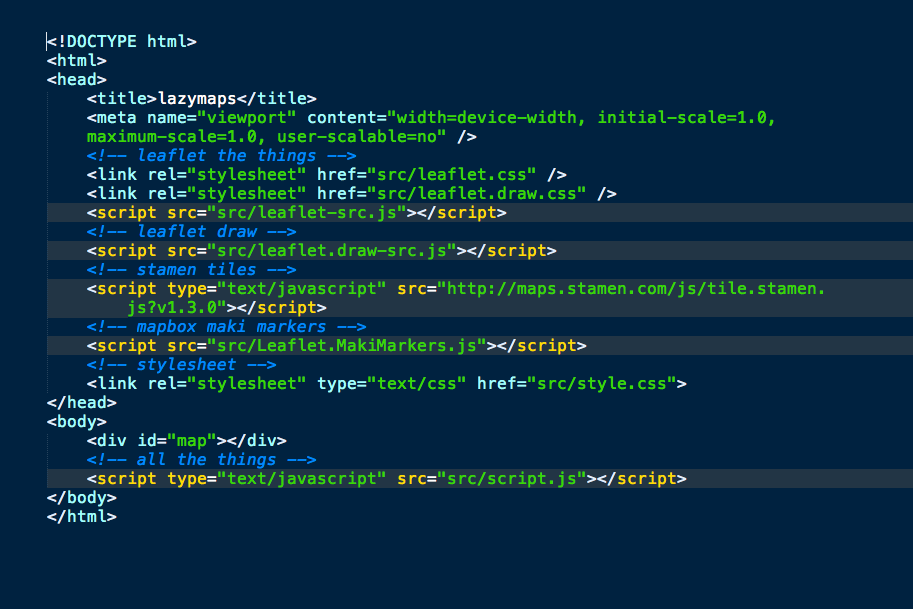
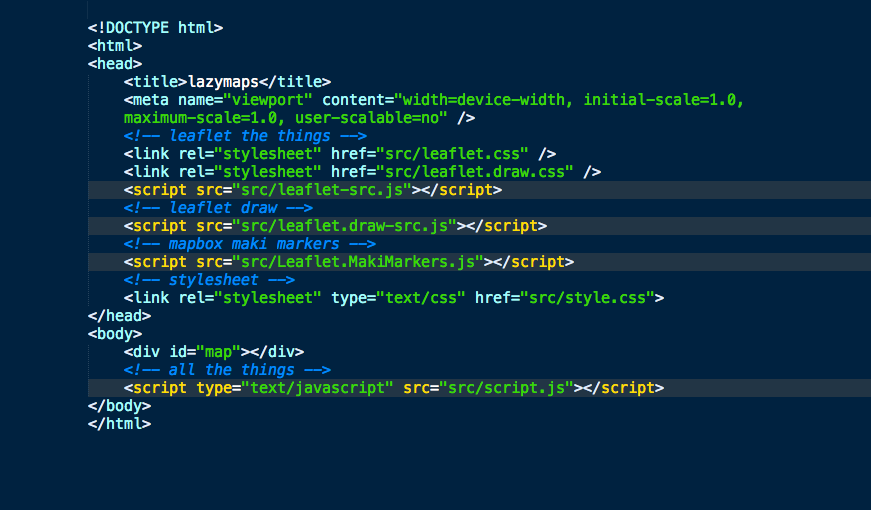
hella basic

diff --git a/hella-basic/index.html b/hella-basic/index.html
@@ -1,3 +1,4 @@
+
 <!DOCTYPE html>
 <html>
 <head>
@@ -9,8 +10,6 @@
 	<script src="src/leaflet-src.js"></script>
 	<!-- leaflet draw -->
 	<script src="src/leaflet.draw-src.js"></script>
-	<!-- stamen tiles -->
-	<script type="text/javascript" src="http://maps.stamen.com/js/tile.stamen.js?v1.3.0"></script>
 	<!-- mapbox maki markers -->
 	<script src="src/Leaflet.MakiMarkers.js"></script>
 	<!-- stylesheet -->
